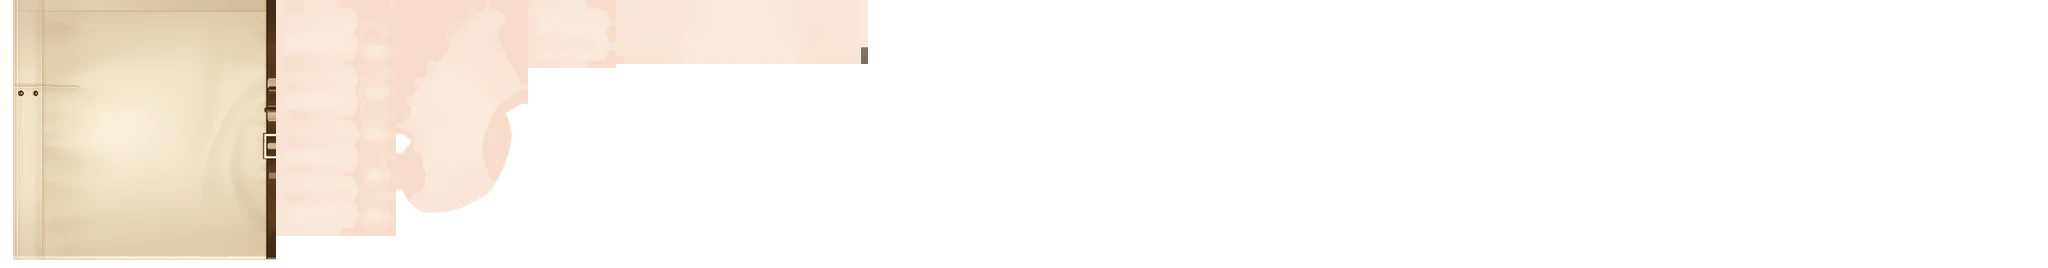
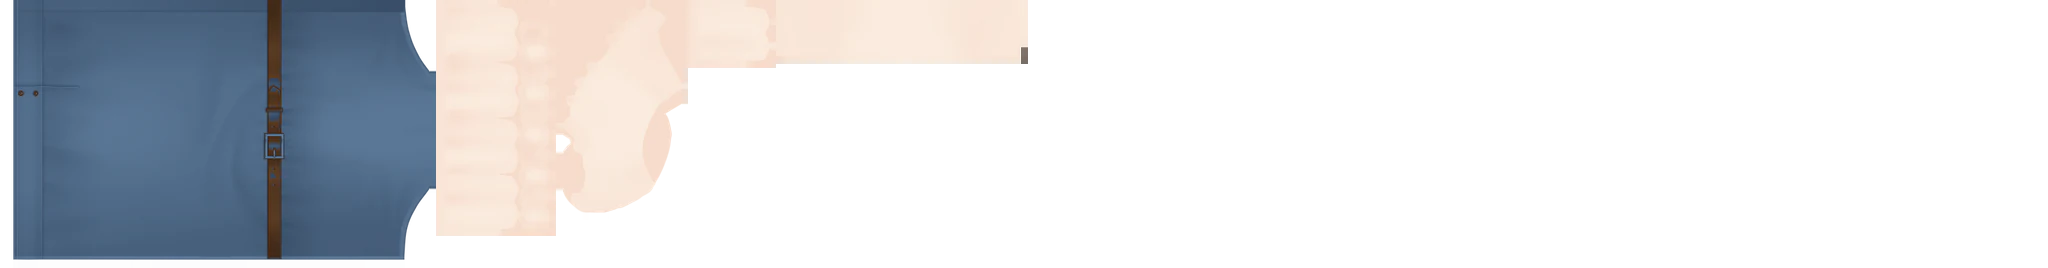
The player's arm: a blue sleeve, a thumb-up fist, a punch from the shoulder
- The sleeve is recoloured a dusky blue in the arm's own texture, so it
  no longer reads as more skin; leather band and hand unchanged.
- The whole arm is included, shoulder to hand, and drawn a little
  larger. It is aimed every frame from the hand back to a shoulder point
  below and right of the eye, so a punch reaches out from the shoulder
  and the arm's far end stays below the screen instead of sliding into
  view. A sword cut rolls the arm and tips the blade rather than
  swinging the arm round the wrist; held things keep their angle.
- The fist and the grip are held thumb-up with the back of the hand to
  the right, and the fist's thumb now lies across the curled fingers.

Changed region(s): [[0.0, 0.0, 0.375, 0.9851], [0.4062, 0.0, 0.5, 0.2388]]

diff --git a/src/entities/viewmodel.ts b/src/entities/viewmodel.ts
@@ -113,9 +113,45 @@ function sickle(): THREE.BufferGeometry {
   return merge([coloured(handle, '#5a4530'), coloured(ferrule, '#8a8a92'), coloured(blade, '#b9bcc4')]);
 }
 
+/**
+ * The arm runs from the hand back to a shoulder below, right of and just in front of the eye, and is aimed
+ * there every frame: as the fist reaches forward the arm swings with it, and its far end (cut at the shoulder)
+ * stays below the bottom of the screen instead of sliding into view.
+ */
+const SHOULDER = new THREE.Vector3(0.46, -0.52, -0.06);
+/** How far the shoulder comes forward behind a punch or a cut. */
+const LEAN = new THREE.Vector3(-0.06, 0.03, -0.16);
+/** The arm is drawn a little larger than modelled: nearer the eye it reads as the right size, and reaches the shoulder. */
+const ARM_SCALE = 1.3;
+/** Where the hand rests, in the camera's frame. */
+const REST = new THREE.Vector3(0.31, -0.27, -0.5);
+
+const shoulderAt = new THREE.Vector3();
+const toShoulder = new THREE.Vector3();
+const across = new THREE.Vector3();
+const upright = new THREE.Vector3();
+const basis = new THREE.Matrix4();
+const roll = new THREE.Quaternion();
+const tilt = new THREE.Quaternion();
+const UP = new THREE.Vector3(0, 1, 0);
+const ALONG = new THREE.Vector3(0, 0, 1);
+const ACROSS = new THREE.Vector3(1, 0, 0);
+
+/** The turn that points an arm's +z (wrist to shoulder) from the hand at `hand` toward `shoulder`, thumb up. */
+function aim(hand: THREE.Vector3, shoulder: THREE.Vector3, out: THREE.Quaternion): THREE.Quaternion {
+  toShoulder.subVectors(shoulder, hand).normalize();
+  across.crossVectors(UP, toShoulder).normalize();
+  upright.crossVectors(toShoulder, across);
+  basis.makeBasis(across, upright, toShoulder);
+  return out.setFromRotationMatrix(basis);
+}
+
 export class Viewmodel {
   readonly root = new THREE.Group();
   private readonly fist: THREE.Mesh;
+  private readonly arm = new THREE.Group();
+  /** How what is held sits in the hand when nothing is swung. */
+  private readonly heldRest = new THREE.Quaternion();
   private readonly grip: THREE.Mesh;
   /** Whatever is held, placed in the closed hand. */
   private readonly held = new THREE.Group();
@@ -134,16 +170,22 @@ export class Viewmodel {
       return mesh;
     };
     // The arm comes up from the lower right: elbow low and out to the side, wrist forward.
-    const arm = new THREE.Group();
-    arm.rotation.set(0.5, 0.5, 0.12, 'YXZ');
+    const arm = this.arm;
     this.fist = make(parts.arms.fist, parts.armMaterial);
     this.grip = make(parts.arms.grip, parts.armMaterial);
+    this.fist.scale.setScalar(ARM_SCALE);
+    this.grip.scale.setScalar(ARM_SCALE);
     arm.add(this.fist, this.grip, this.held);
     this.root.add(arm);
 
     // Things held pass through the closed hand, tipped forward a little as a blade is carried.
-    this.held.position.copy(parts.arms.gripAt);
-    this.held.rotation.set(-1.0, -0.25, 0.3);
+    this.held.position.copy(parts.arms.gripAt).multiplyScalar(ARM_SCALE);
+    // Tuned when the arm was held at a fixed turn (0.5, 0.5, 0.12 YXZ, under a 0.1 turn to the left): keep what is
+    // held at that same angle to the eye now that the arm is aimed at the shoulder instead.
+    const before = new THREE.Quaternion().setFromEuler(new THREE.Euler(0, -0.1, 0)).multiply(new THREE.Quaternion().setFromEuler(new THREE.Euler(0.5, 0.5, 0.12, 'YXZ')));
+    const now = aim(REST, SHOULDER, new THREE.Quaternion());
+    this.held.quaternion.copy(now.invert().multiply(before).multiply(new THREE.Quaternion().setFromEuler(new THREE.Euler(-1.0, -0.25, 0.3))));
+    this.heldRest.copy(this.held.quaternion);
     const tools = toolMaterial();
     const add = (id: string, object: THREE.Object3D) => {
       object.visible = false;
@@ -170,7 +212,8 @@ export class Viewmodel {
       add('sword', make(merge([coloured(blade, '#c2c6cc'), coloured(guard, '#8a7a4a')]), tools));
     }
 
-    this.root.position.set(0.27, -0.27, -0.42);
+    this.root.position.copy(REST);
+    aim(REST, SHOULDER, arm.quaternion);
     camera.add(this.root);
   }
 
@@ -192,35 +235,39 @@ export class Viewmodel {
     const sway = Math.sin(time * 7.5) * 0.012 * this.bob;
     const lift = Math.abs(Math.cos(time * 7.5)) * 0.014 * this.bob + Math.sin(time * 1.3) * 0.004;
 
-    let px = 0.31 + sway;
-    let py = -0.27 + lift;
-    let pz = -0.5;
-    let rx = 0;
-    let ry = -0.1;
-    let rz = 0;
+    let px = REST.x + sway;
+    let py = REST.y + lift;
+    let pz = REST.z;
+    // A cut rolls the arm about its own length and tips the blade in the hand; the arm itself stays aimed at
+    // the shoulder, so it never swings round the wrist and shows its far end.
+    let rollBy = 0;
+    let tipBy = 0;
+    let lean = 0;
     if (swing >= 0) {
       // Wind up briefly, strike through, then recover.
       const strike = swing < 0.38 ? swing / 0.38 : 1 - (swing - 0.38) / 0.62;
       const ease = strike * strike * (3 - 2 * strike);
+      lean = ease;
       if (holding) {
         // A cut from the upper right down across to the left.
         const wind = Math.sin(Math.min(1, swing / 0.2) * Math.PI) * (swing < 0.2 ? 1 : 0);
         px += -0.34 * ease + 0.05 * wind;
         py += 0.1 * wind - 0.08 * ease;
         pz -= 0.12 * ease;
-        rx = 0.35 * wind - 0.95 * ease;
-        rz = 0.8 * ease - 0.2 * wind;
-        ry = -0.1 + 0.55 * ease;
+        rollBy = 0.9 * ease - 0.2 * wind;
+        tipBy = 0.35 * wind - 0.85 * ease;
       } else {
-        // A straight punch.
-        px -= 0.14 * ease;
+        // A straight punch toward the middle of the view: the arm reaches out from the shoulder behind it.
+        px -= 0.15 * ease;
         py += 0.1 * ease;
-        pz -= 0.34 * ease;
-        rx = 0.1 * ease;
-        ry = -0.1 + 0.2 * ease;
+        pz -= 0.3 * ease;
       }
     }
     this.root.position.set(px, py, pz);
-    this.root.rotation.set(rx, ry, rz);
+    shoulderAt.copy(SHOULDER).addScaledVector(LEAN, lean);
+    aim(this.root.position, shoulderAt, this.arm.quaternion);
+    if (rollBy) this.arm.quaternion.multiply(roll.setFromAxisAngle(ALONG, rollBy));
+    this.held.quaternion.copy(this.heldRest);
+    if (tipBy) this.held.quaternion.premultiply(tilt.setFromAxisAngle(ACROSS, tipBy));
   }
 }

diff --git a/docs/ANIME-CAST.md b/docs/ANIME-CAST.md
@@ -182,7 +182,7 @@ So that each can be remade or adjusted. All start from the Fem base (each from t
 
 Heights in the exports (top of the head bone + 0.2 m, as the viewer reports): Wren and Maelin 1.54 m, Hesta, Marta, Dorrie and Orla 1.60 m, Brenna 1.66 m, Pip 1.08 m (the game scales her to 1.16 m).
 
-**The player's arm** is Dorrie's right forearm (`ARM_SOURCE` in `build-vrm.mjs`): her cream shirt sleeve and bare hand, the fingers curled in the build into a fist and a grip (`HAND_POSES`), drawn with the cel material. **The scarecrows** keep their pack bodies and get the same cel shading and outline (`celPackMaterials()`).
+**The player's arm** is Dorrie's whole right arm (`ARM_SOURCE` in `build-vrm.mjs`) with her shirt sleeve recoloured a dusky blue (`ARM_SLEEVE`) so it does not read as skin, and her bare hand; the build curls the fingers into a fist and a grip (`HAND_POSES`, the fist's thumb found by a small search so it lies across the curled fingers), both held thumb-up with the back of the hand to the right. In the game (`src/entities/viewmodel.ts`) it is drawn 1.3 times life size and aimed every frame from the hand back to a shoulder point below and right of the eye, so a punch reaches out from the shoulder and a sword cut rolls the arm and tips the blade, and the arm's far end never comes into view. **The scarecrows** keep their pack bodies and get the same cel shading and outline (`celPackMaterials()`).
 
 **Judgements the owner may want to revisit**: Maelin reads as a serene silver-haired woman rather than a visibly old one (allowed, not required, by the owner's words); she can be aged further with the face sliders or painted lines. Brenna's apron is painted on, so from the front her thighs read as leather with the gap between them open, more bib-overalls than a hanging apron. Orla's sweater is cropped, with the undershirt showing at the waist. Two characters have straw hats (the Haywell sister and the beekeeper, both outdoor workers).
 
